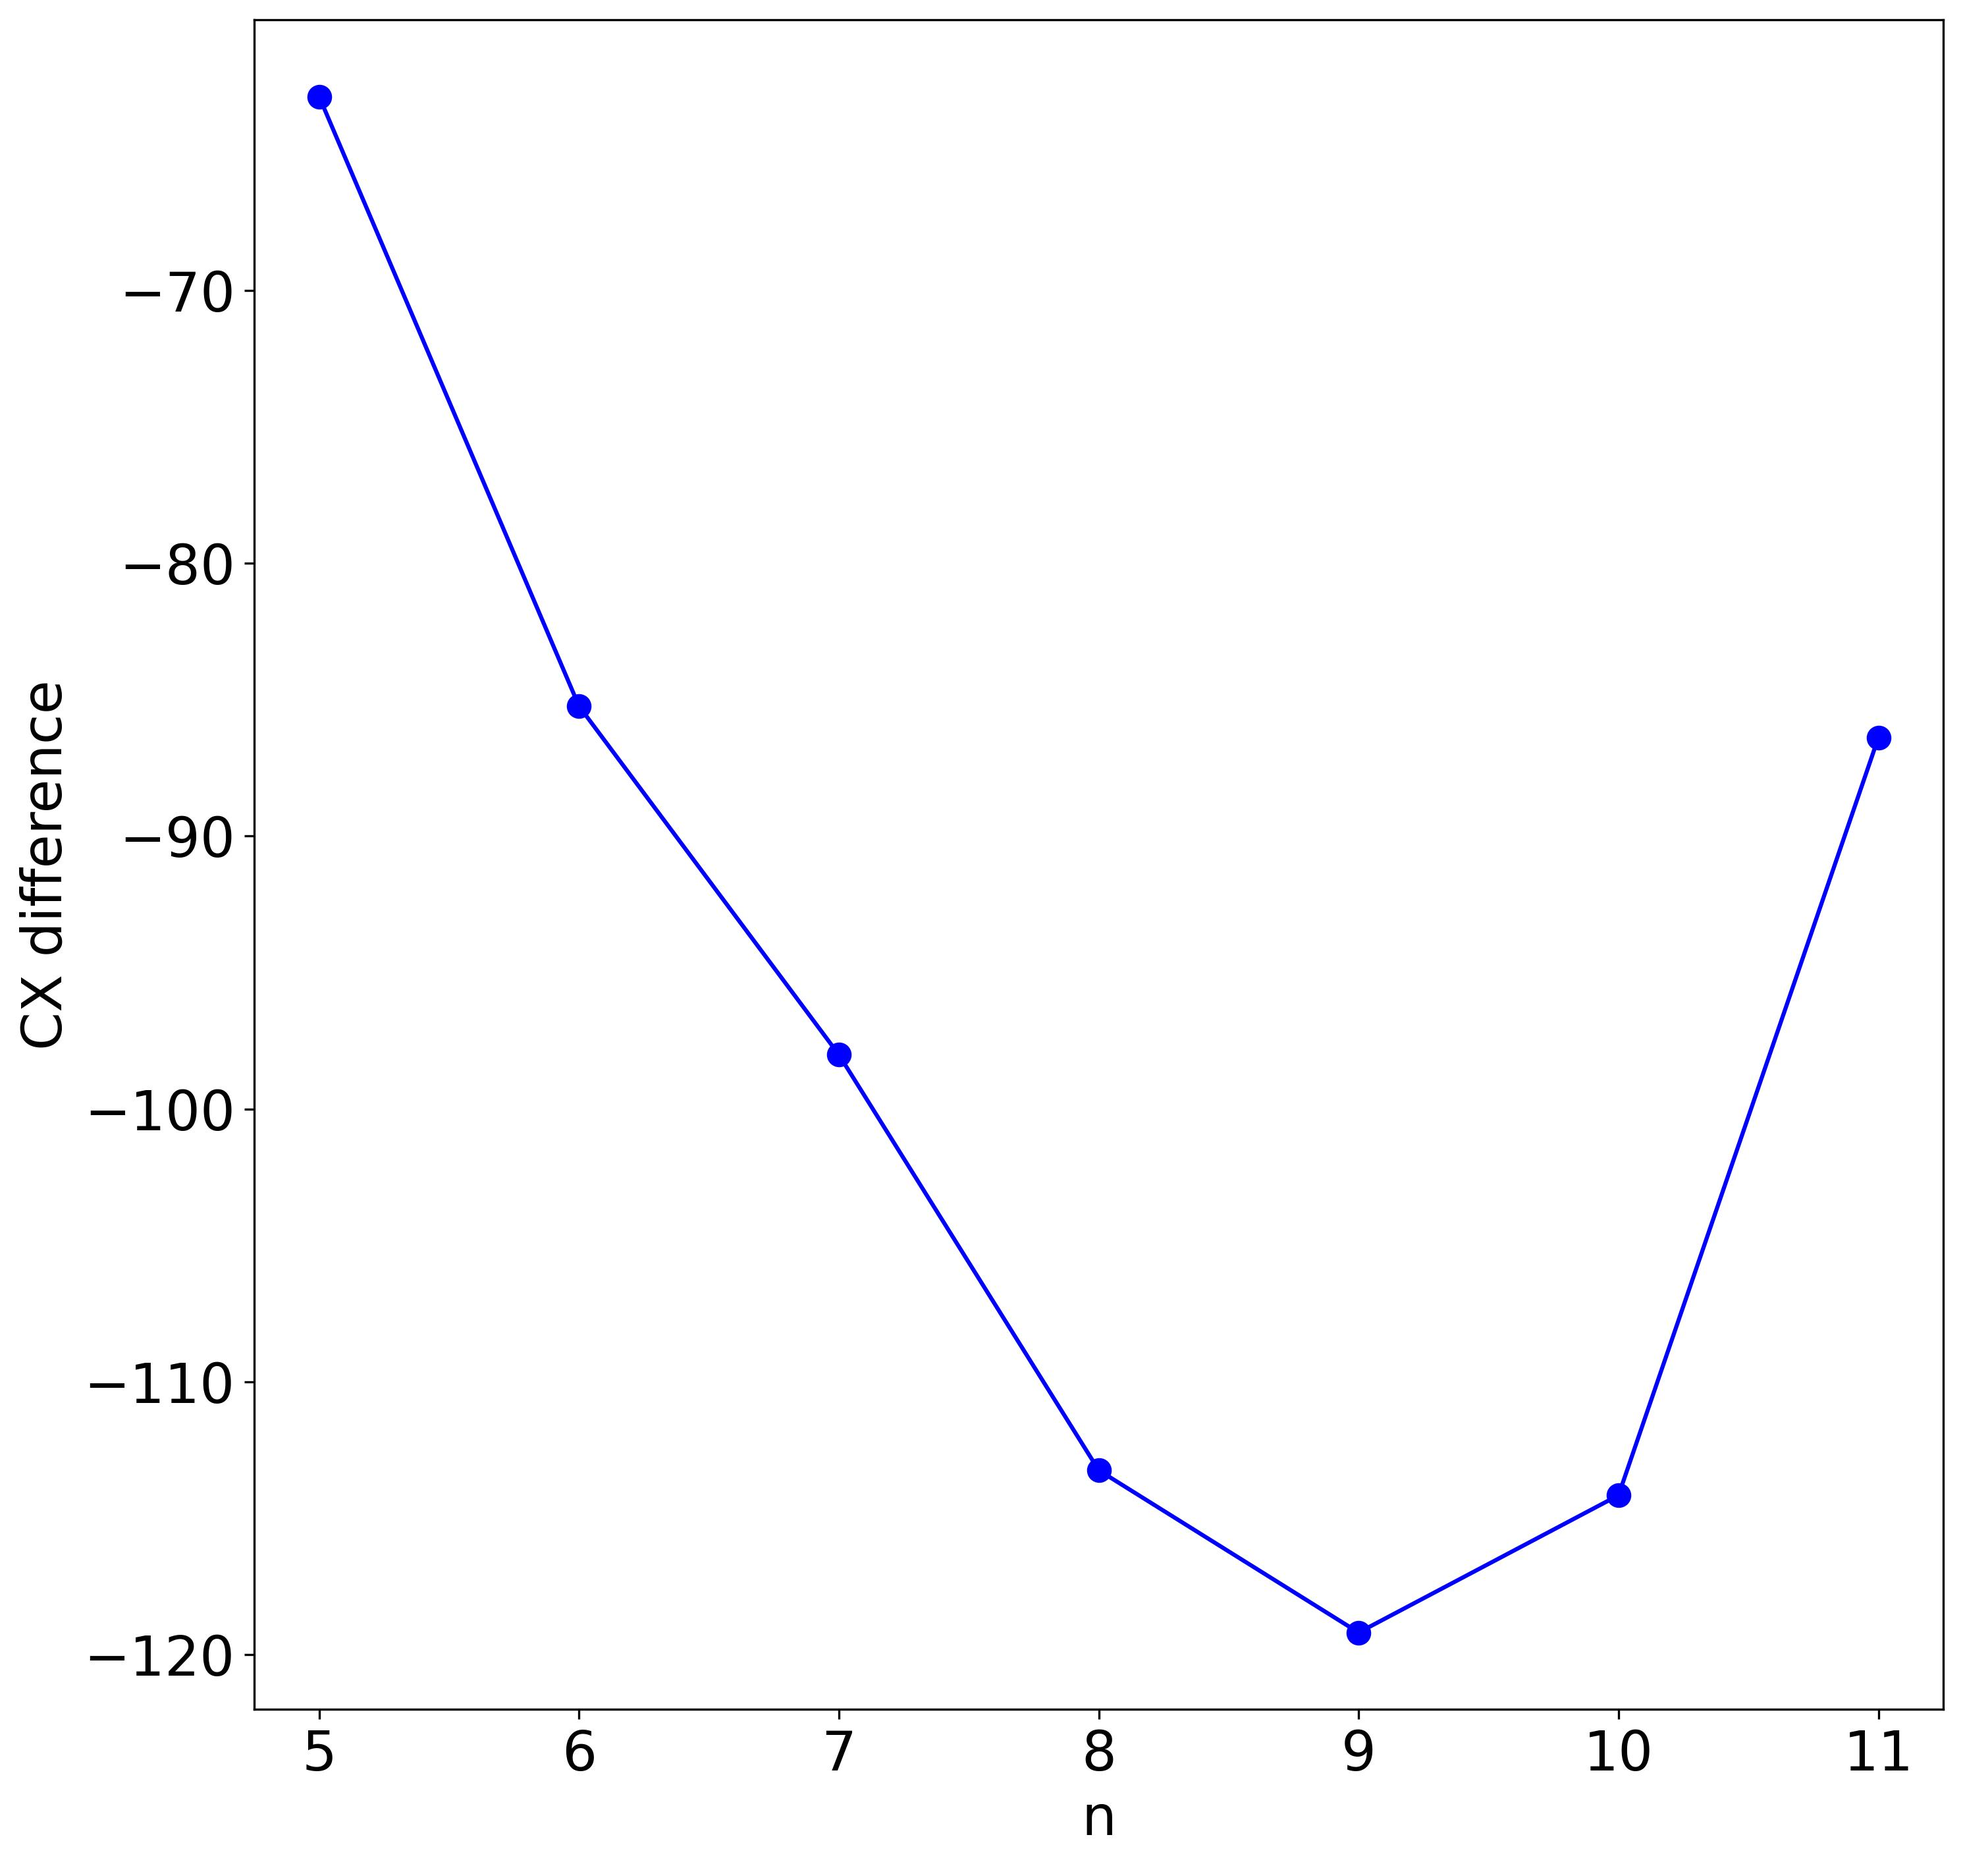
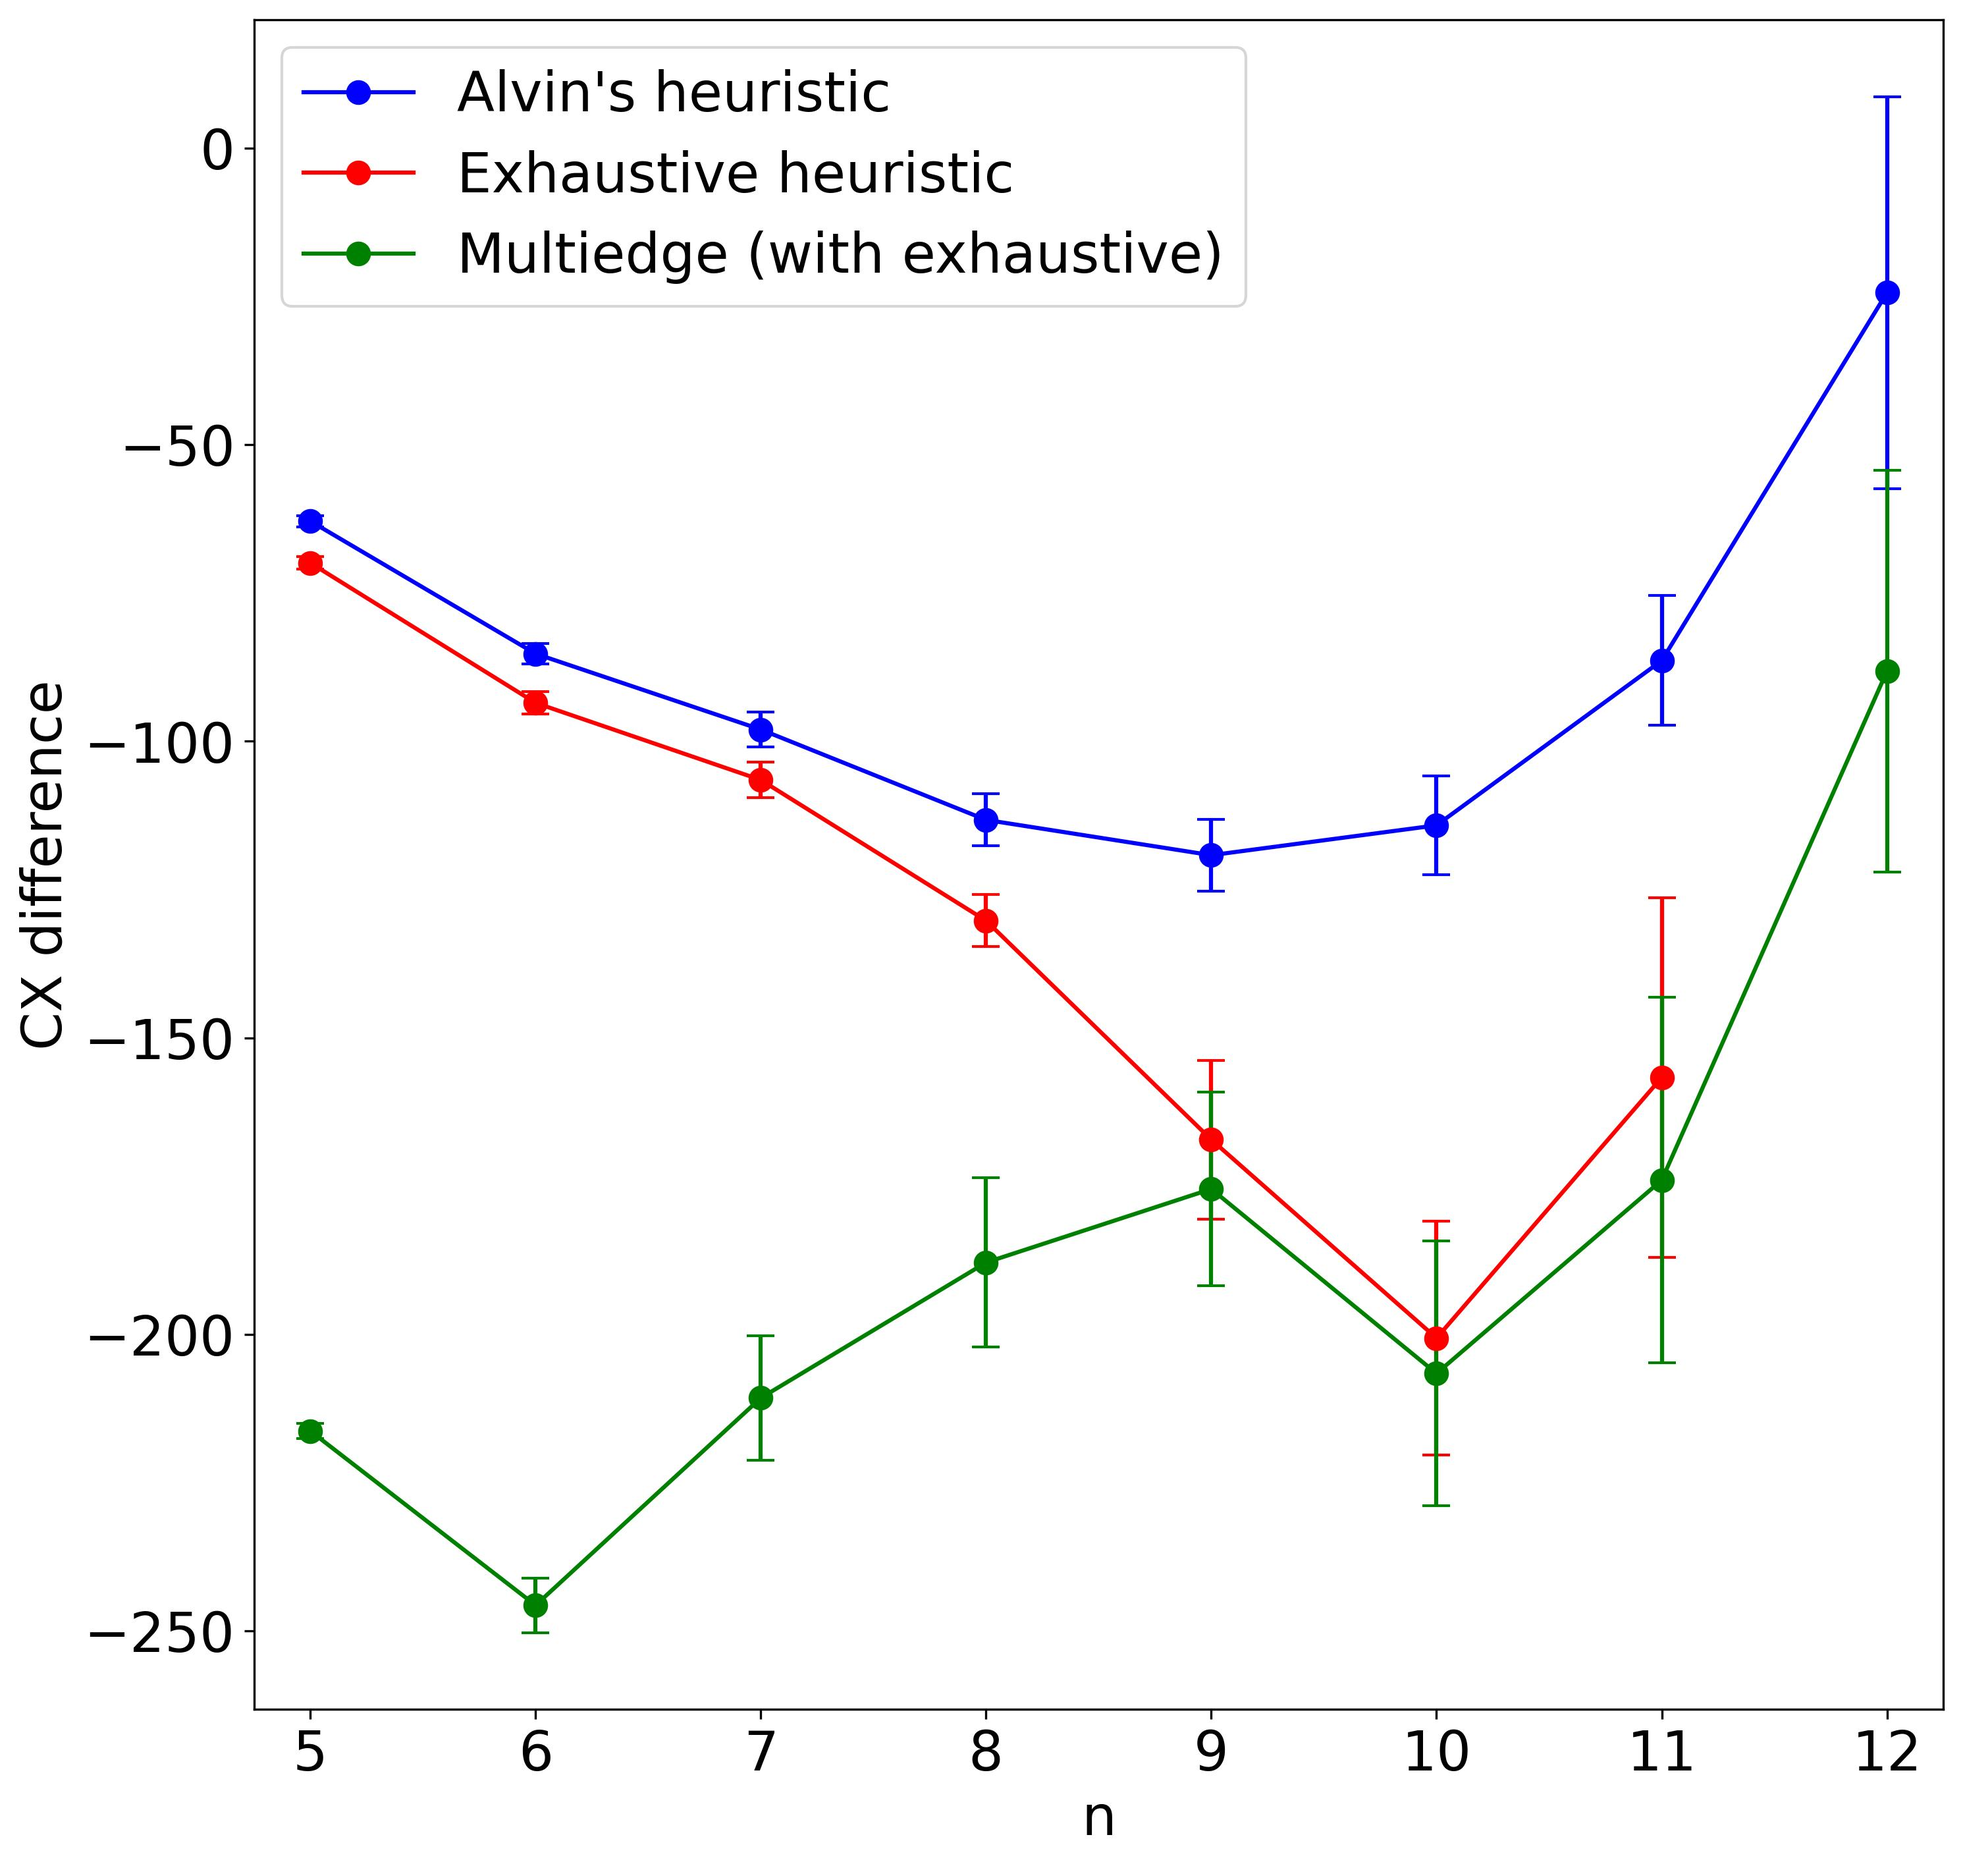
Adds difference plot; Updates error calculation

diff --git a/plots/quantum_walks.py b/plots/quantum_walks.py
@@ -5,9 +5,10 @@ import matplotlib.pyplot as plt
 import numpy as np
 import pandas as pd
 from matplotlib.lines import Line2D
+from scipy import stats
 
 from general import Line, plot_general, save_figure
-from src.utilities.general import get_error_margin
+from src.utilities.general import get_error_margin_mean, get_error_margin_mean_sum
 
 
 def plot_cx_count_vs_num_qubits_line(method: str, num_qubits: Sequence[int], num_amplitudes: Sequence[int], color_ind: int, marker_ind: int, label: str, figure_id: int,
@@ -18,7 +19,7 @@ def plot_cx_count_vs_num_qubits_line(method: str, num_qubits: Sequence[int], num
         data_path = f"../data/qubits_{n}/m_{m}/cx_counts.csv"
         df = pd.read_csv(data_path)
         ys.append(np.mean(df[method]))
-        error_margins.append(get_error_margin(df[method]))
+        error_margins.append(get_error_margin_mean(df[method]))
 
     if not add_error_margins:
         error_margins = None
@@ -75,19 +76,41 @@ def plot_qiskit_comparison():
     save_figure()
 
 
-def plot_gleinig_difference():
-    methods_to_compare = ["mhs_nonlinear", "merging_states"]
+def plot_methods_comparison():
+    methods = ["merging_states", "mhs_nonlinear", "mhs_nonlinear_alt", "mhs_multi"]
+    labels = ["Merging States", "Alvin's heuristic", "Exhaustive heuristic", "Multiedge (with exhaustive)"]
     num_qubits = np.array(range(5, 12))
     num_amplitudes = num_qubits ** 2
 
-    ys = []
-    for n, m in zip(num_qubits, num_amplitudes):
-        data_path = f"../data/qubits_{n}/m_{m}/cx_counts.csv"
-        df = pd.read_csv(data_path)
-        ys.append(np.mean(df[methods_to_compare[0]]) - np.mean(df[methods_to_compare[1]]))
+    for method_ind, method in enumerate(methods):
+        plot_cx_count_vs_num_qubits_line(method, num_qubits, num_amplitudes, color_ind=method_ind, marker_ind=0, label=labels[method_ind], figure_id=0, add_error_margins=True)
 
-    line = Line(num_qubits, ys)
-    plot_general([line], ("n", "CX difference"), boundaries=(4.75, 11.25, None, None))
+    save_figure()
+
+
+def plot_gleinig_difference():
+    reference = "merging_states"
+    methods = ["mhs_nonlinear", "mhs_nonlinear_alt", "mhs_multi"]
+    labels = ["Alvin's heuristic", "Exhaustive heuristic", "Multiedge (with exhaustive)"]
+
+    lines = []
+    for method_ind, method in enumerate(methods):
+        if method_ind == 1:
+            num_qubits = np.array(range(5, 12))
+        else:
+            num_qubits = np.array(range(5, 13))
+        num_amplitudes = num_qubits ** 2
+
+        ys = []
+        errors = []
+        for n, m in zip(num_qubits, num_amplitudes):
+            data_path = f"../data/qubits_{n}/m_{m}/cx_counts.csv"
+            df = pd.read_csv(data_path)
+            ys.append(np.mean(df[method]) - np.mean(df[reference]))
+            errors.append(get_error_margin_mean_sum([df[method], df[reference]]))
+
+        lines.append(Line(num_qubits, ys, errors, color=method_ind, label=labels[method_ind]))
+    plot_general(lines, ("n", "CX difference"), boundaries=(4.75, 12.25, None, None))
     save_figure()
 
 
@@ -95,6 +118,7 @@ if __name__ == "__main__":
     # plot_control_reduction_effect()
     # plot_walk_order_comparison()
     # plot_qiskit_comparison()
+    # plot_methods_comparison()
     plot_gleinig_difference()
 
     plt.show()

diff --git a/src/utilities/general.py b/src/utilities/general.py
@@ -69,9 +69,18 @@ def greedy_decision_tree(group_sizes: list[int], target_func: callable, ordered:
     return [node for node in last_layer if node.score == best_node.score]
 
 
-def get_error_margin(data: Sequence, confidence: float = 0.95) -> float:
+def get_error_margin_mean(data: Sequence, confidence: float = 0.95) -> float:
+    """ Calculates error margin (half of confidence interval) for the mean of data. Assumes large enough sample to justify normal distribution of mean. """
     z_val = stats.norm.ppf((1 + confidence) / 2)
-    return z_val * np.std(data, ddof=1) / len(data) ** 0.5
+    return z_val * np.std(data, ddof=1) / data.count() ** 0.5
+
+
+def get_error_margin_mean_sum(data_all: list[Sequence], confidence: float = 0.95) -> float:
+    """ Calculates error margin (half of confidence interval) for the sum of means of independent data. Assumes large enough sample to justify normal distribution of mean. """
+    z_val = stats.norm.ppf((1 + confidence) / 2)
+    mean_variances = [np.var(data, ddof=1) / data.count() for data in data_all]
+    std_err = np.sqrt(sum(mean_variances))
+    return z_val * std_err
 
 
 def array_to_str(arr: Sequence) -> str:
